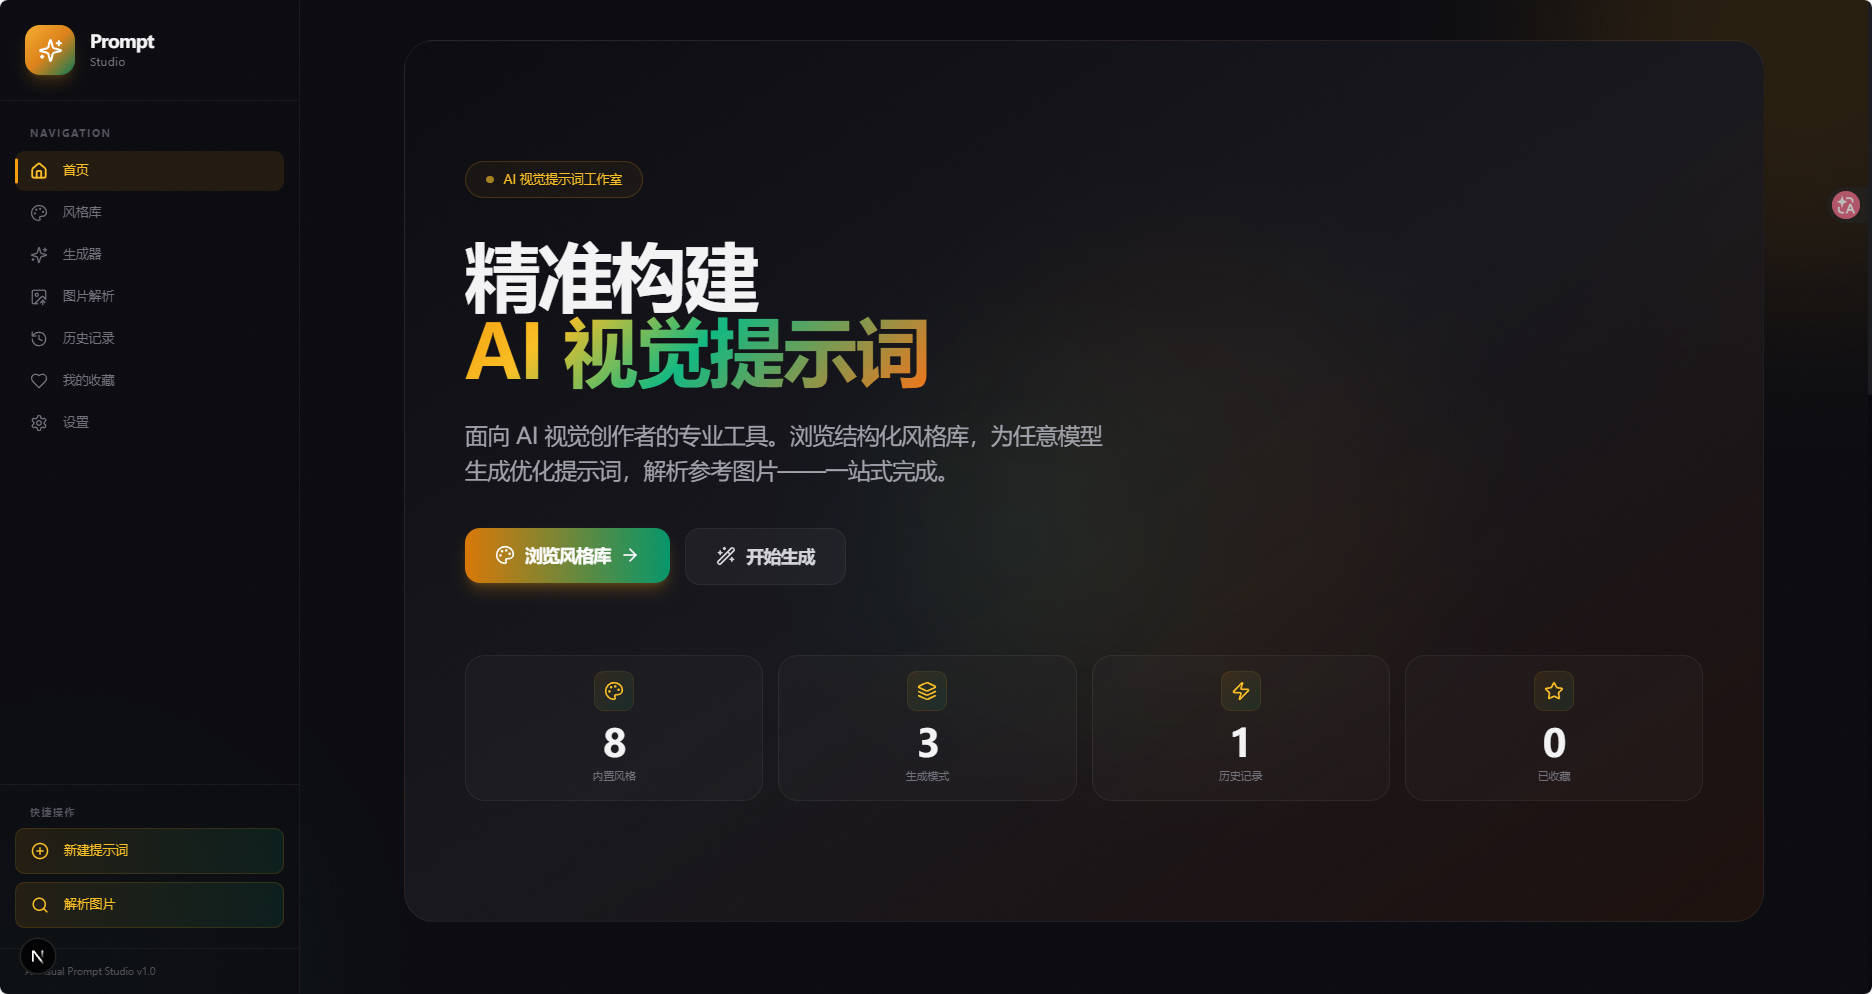
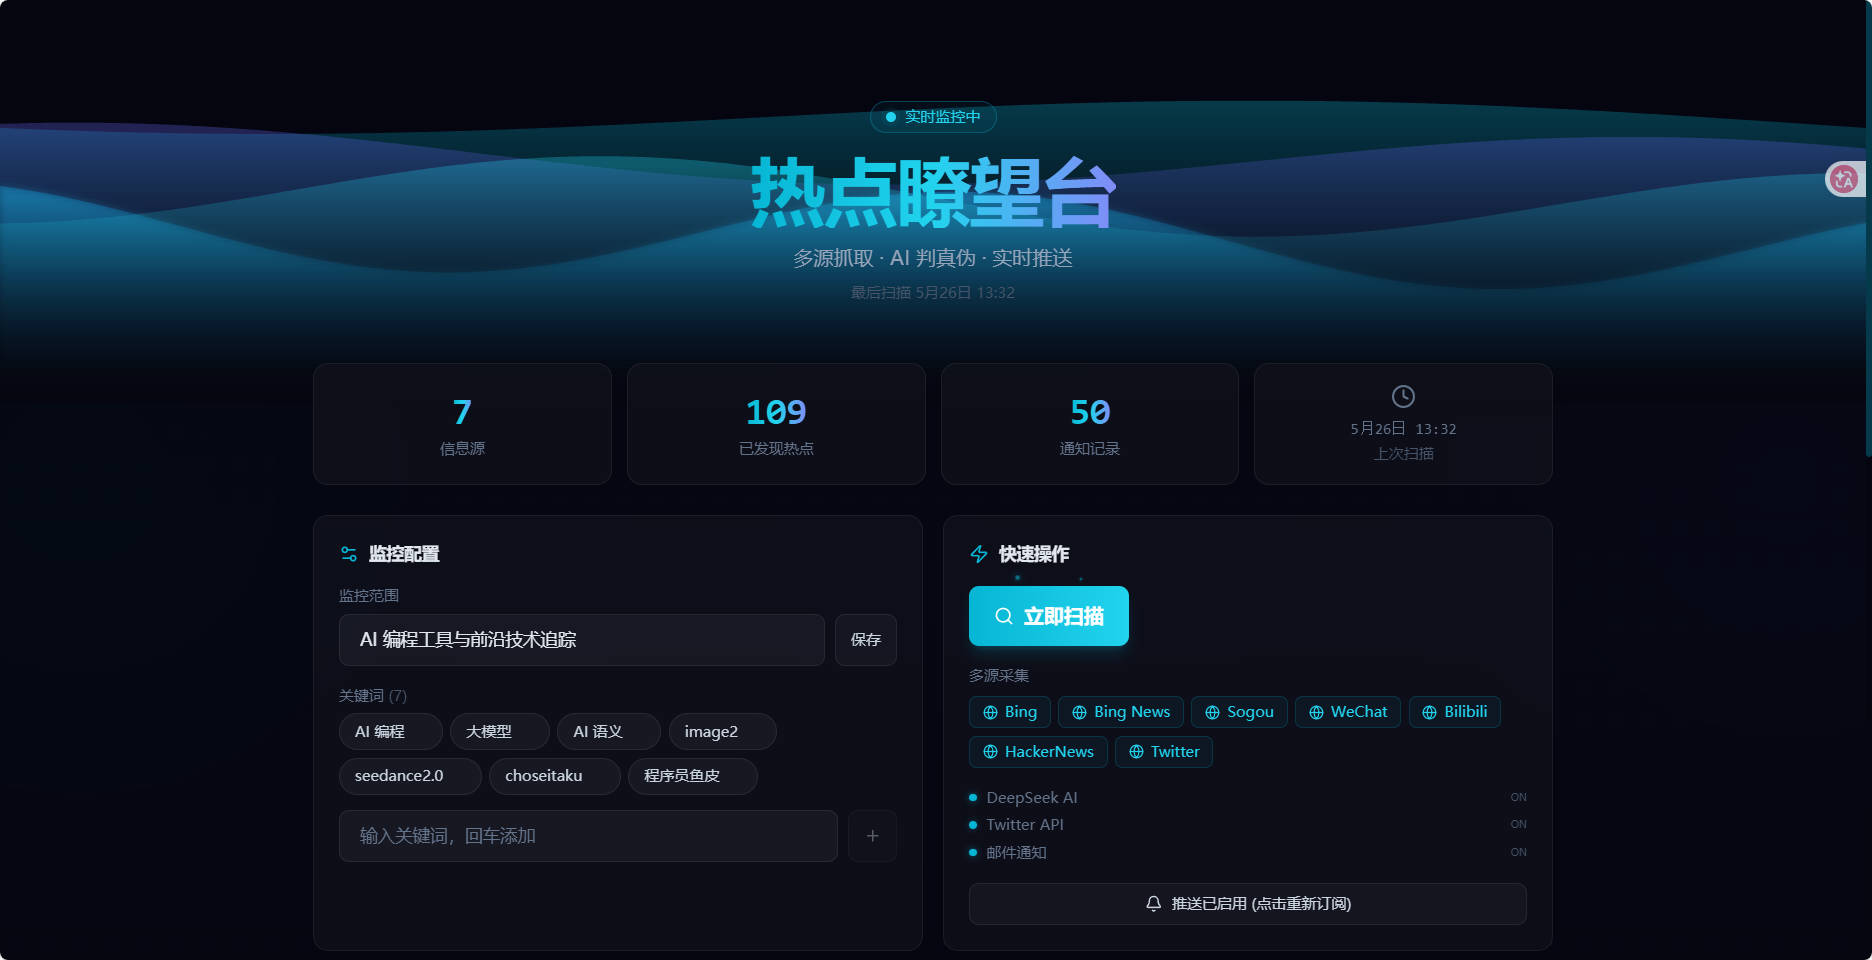
feat: 新增热点瞭望台博客文章

diff --git a/source/_posts/hotspot-monitor.md b/source/_posts/hotspot-monitor.md
@@ -1,0 +1,292 @@
+---
+title: 热点瞭望台 — 一个全栈 AI 热点监控系统的技术复盘
+date: 2026-06-23 10:00:00
+tags:
+  - 项目
+  - AI
+categories:
+  - 项目
+description: 个人项目 · 全栈开发 · 从零到一。热点瞭望台是一个轻量级多源 AI 热点监控工具，涵盖搜索引擎并发抓取、AI判别真伪、Web面板展示、浏览器推送等功能。
+cover: /img/random15.png
+---
+
+# 热点瞭望台 — 一个全栈 AI 热点监控系统的技术复盘
+
+> 个人项目 · 全栈开发 · 从零到一
+
+---
+
+## 项目概述
+
+**热点瞭望台 (Hotspot Monitor)** 是一个轻量级多源 AI 热点监控工具，核心链路为：
+
+```
+7+ 搜索引擎并发抓取 → 去重与公平轮询 → AI 判别真伪与置信度打分 → 科技风 Web 面板展示 → 浏览器推送 / 邮件通知
+```
+
+技术栈：**React 18 + Vite 5 + Tailwind CSS 3 + Express 4 + DeepSeek API**
+
+![网站全貌](/img/website.jpg)
+
+---
+
+## 为什么做这个项目
+
+信息过载时代，每天在 Bing、Bilibili、HackerNews、Twitter 等平台之间反复切换，依然会错过真正有价值的热点。我想做一个**自动化的「信息雷达」**：让它帮我盯着多个来源，用 AI 过滤噪音，只把真正重要的信息推送到面前。
+
+同时，这个项目也是我对**全栈工程能力**的一次综合检验——从网络爬虫、并发调度、AI 集成，到前端可视化、推送通知、定时任务，每一个环节都值得深入思考。
+
+---
+
+## 核心技术亮点
+
+### 1. 多源并发抓取架构
+
+系统集成了 **7 个异构搜索源**，每个源有独立的抓取策略和容错机制：
+
+| 搜索源 | 抓取方式 | 特殊处理 |
+|--------|----------|----------|
+| Bing | HTML 解析 (Cheerio) | 标准搜索结果 |
+| Bing News | HTML 解析 | 提取新闻发布时间 |
+| 搜狗 | HTML 解析 | URL 补全 |
+| 搜狗微信 | HTML 解析 | 微信公众号文章 |
+| Bilibili | WBI 签名 API | 动态密钥刷新 + MD5 签名 |
+| HackerNews | Algolia REST API | 结构化 JSON |
+| Twitter | TwitterAPI.io | 高级搜索 + 互动量过滤 |
+
+**关键设计**：每个源独立 `setTimeout` 超时控制（12-15秒），单源失败不影响其他源。通过 `Promise.allSettled` 并发执行，保证最大限度的数据采集。
+
+```javascript
+// 每个源独立超时，互不干扰
+const searches = await Promise.allSettled(candidatePromises);
+const candidates = searches.flatMap(r => r.status === 'fulfilled' ? r.value : []);
+```
+
+### 2. Bilibili WBI 签名逆向
+
+Bilibili 的搜索 API 需要 WBI 签名验证，这是整个抓取模块中技术难度最高的部分：
+
+- **密钥获取**：先访问 B站首页拿到 `buvid3` cookie，再调用 nav 接口获取 `img_key` 和 `sub_key`
+- **签名算法**：使用 64 位混淆表对参数进行重排，拼接密钥后计算 MD5
+- **自动刷新**：密钥缓存 30 分钟，过期自动重新获取
+
+```javascript
+function signBilibili(params) {
+  const orig = biliState.imgKey + biliState.subKey;
+  const mixinKey = BILI_WBI_MIXIN_TAB.map(i => orig[i]).join('').slice(0, 32);
+  const wts = Math.floor(Date.now() / 1000);
+  const sorted = Object.keys({ ...params, wts }).sort().map(k => `${k}=${v}`).join('&');
+  const wRid = createHash('md5').update(sorted + mixinKey).digest('hex');
+  return `${sorted}&w_rid=${wRid}`;
+}
+```
+
+### 3. 公平轮询算法 — 跨源 × 关键词双层调度
+
+**问题**：Bing 等高产源每次搜索返回 10+ 条结果，而 HackerNews、Twitter 可能只有 2-3 条。如果直接合并，高产源会淹没小众源。
+
+**解决方案**：设计了「来源 × 关键词」双层公平轮询算法：
+
+```
+第一层：每个来源内部，按关键词分组后轮询展平
+  → Bing: [AI编程_1, 大模型_1, AI编程_2, 大模型_2, ...]
+
+第二层：跨来源轮询，每源设置硬配额（max / 源数，不低于 minPerSource）
+  → [Bing_1, HN_1, Twitter_1, Sogou_1, Bing_2, HN_2, ...]
+```
+
+这样保证了每个来源至少有 4 条候选进入 AI 审核，避免了信息来源单一化。
+
+### 4. AI 判别引擎 — 双模型容错
+
+采用 **DeepSeek 为主、OpenRouter (GPT-4o-mini) 兜底** 的双模型策略：
+
+```javascript
+let result = await callDeepSeek(prompt);      // 主力
+if (!result) result = await callOpenRouter(prompt); // 兜底
+```
+
+AI 对每条候选输出结构化 JSON：
+```json
+{
+  "isHot": true,
+  "confidence": 0.85,
+  "summary": "该视频标题提及GPT-Image2，属于AI图像生成工具...",
+  "reason": "内容为实战用法合集，符合社区热门讨论定义，且来源可靠"
+}
+```
+
+**置信度阈值**：`confidence >= 0.4` 才会被收录为热点，避免低质量内容干扰。
+
+### 5. 去重策略
+
+在数据量大的场景下，去重是关键环节。系统采用**三字段联合去重**：
+
+```javascript
+const key = `${item.source}::${normalizeUrl(item.url)}::${item.title}`;
+```
+
+其中 `normalizeUrl` 会去除查询参数和 hash 片段，避免同一内容因 URL 参数不同而被重复收录。
+
+---
+
+## 前端架构与交互设计
+
+### Bento Grid 布局
+
+采用 Bento Grid（便当盒布局）设计，将监控配置、快速操作、热点列表、通知中心四大模块有机组合：
+
+![热点列表与通知面板](/img/热点通知.jpg)
+
+### 热点卡片交互
+
+每张热点卡片支持展开/折叠，展示完整信息：
+
+![卡片展开详情](/img/详细信息展开.jpg)
+
+展开后展示：
+- **AI 判定理由** — 为什么这条内容被判定为热点
+- **详细信息** — 收录时间、发布时间、触发方式、置信度精确值
+- **原文链接** — 一键复制 / 新标签打开
+
+### 排序与筛选系统
+
+支持 4 种排序维度：
+
+| 排序方式 | 逻辑 |
+|----------|------|
+| 相关性 | 有搜索词时按匹配度评分（标题 +5，摘要 +2，query 完全匹配 +8），否则按时间 |
+| 热度 | 按 AI 置信度降序 |
+| 收录 | 按扫描发现时间降序 |
+| 发布 | 按信息源的原始发布时间降序 |
+
+加上来源筛选（按来源 chip 过滤）和关键词搜索（多 token 匹配），形成完整的数据探索能力。
+
+### 动画与视觉
+
+- **WavyBackground**：Canvas 绘制的多层正弦波浪动画，支持颜色、速度、透明度配置
+- **FloatingParticles**：浮动粒子背景，增加科技感
+- **Sparkles**：按钮 sparkle 效果，增强交互反馈
+- **Framer Motion**：卡片进入动画、折叠展开过渡、分页切换
+
+---
+
+## 后端架构
+
+### API 设计
+
+RESTful 风格，8 个核心端点：
+
+```
+GET  /api/config        — 获取关键词与监控范围
+POST /api/keywords      — 添加关键词
+DEL  /api/keywords/:kw  — 删除关键词
+POST /api/scope         — 更新监控范围
+POST /api/scan          — 手动触发扫描
+GET  /api/hotspots      — 获取热点列表
+GET  /api/notifications — 获取通知记录
+POST /api/subscribe     — 浏览器推送订阅
+GET  /api/health        — 服务健康状态
+```
+
+### 定时任务
+
+使用 `node-cron` 每 30 分钟自动执行扫描：
+
+```javascript
+cron.schedule('*/30 * * * *', async () => {
+  await scanHotspots('automatic');
+});
+```
+
+### 数据持久化
+
+采用 JSON 文件存储（`data/` 目录），适合轻量级部署，无需数据库依赖：
+- `keywords.json` — 关键词配置 + 通知记录
+- `hotspots.json` — 热点列表（最多保留 120 条）
+- `subscriptions.json` — 浏览器推送订阅
+
+### 通知系统
+
+**双通道通知**：
+1. **浏览器 Web Push** — 基于 VAPID 协议，通过 Service Worker 推送
+2. **邮件通知** — 基于 nodemailer + SMTP，自动清理无效订阅
+
+---
+
+## 工程实践
+
+### 容错设计
+
+- 每个抓取源独立超时，单源崩溃不影响全局
+- AI 调用双模型容错，DeepSeek 失败自动切换 OpenRouter
+- 通知发送失败静默处理，不阻断主流程
+
+### 性能优化
+
+- 抓取节流：关键词间 800ms 延迟，避免触发反爬
+- 前端分页：每页 10 条，避免大列表渲染压力
+- Canvas 动画：requestAnimationFrame + DPR 适配，保证 60fps 流畅
+
+### 部署方案
+
+```bash
+# 开发模式（前后端分离）
+npm start          # 后端 :4000
+npm run dev        # 前端 :5173，自动代理 /api
+
+# 生产模式（单端口托管）
+npm run build      # Vite 构建 dist/
+npm run start:prod # Express 托管前端 + API
+```
+
+---
+
+## 项目数据
+
+经过一段时间的运行积累：
+
+- **信息源**：7 个
+- **已发现热点**：100+ 条
+- **通知记录**：50+ 条
+- **覆盖平台**：Bilibili、HackerNews、Twitter、Bing、搜狗、微信公众号
+
+---
+
+## 技术栈总结
+
+| 层 | 技术 | 选型理由 |
+|----|------|----------|
+| 前端框架 | React 18 | 生态成熟，组件化开发效率高 |
+| 构建工具 | Vite 5 | 极速 HMR，开发体验优秀 |
+| 样式方案 | Tailwind CSS 3 | 原子化 CSS，快速迭代 UI |
+| 动画 | Framer Motion | 声明式动画 API，与 React 深度集成 |
+| 后端框架 | Express 4 | 轻量灵活，适合 API 服务 |
+| AI 引擎 | DeepSeek API | 性价比高，中文理解能力强 |
+| 定时任务 | node-cron | Cron 语法，零配置 |
+| 网页解析 | Cheerio | 服务端 jQuery，高效 HTML 解析 |
+
+---
+
+## 后续规划
+
+1. **数据可视化** — 添加热点趋势图表，展示各来源的数据分布
+2. **多主题支持** — 支持多套关键词配置，一键切换监控主题
+3. **向量搜索** — 引入 embedding 做语义去重，提升去重精度
+4. **Chrome 插件** — 浏览器扩展，实时查看最新热点
+5. **自动化部署** — GitHub Actions CI/CD，自动构建部署
+
+---
+
+## 写在最后
+
+这个项目让我完整经历了一个全栈产品从需求分析、架构设计、核心算法实现到部署上线的全过程。其中最有收获的几个点：
+
+- **并发调度**：`Promise.allSettled` + 独立超时的容错模式
+- **公平轮询算法**：双层轮询 + 硬配额的设计思路
+- **AI 集成**：结构化 prompt + 双模型容错的工程实践
+- **前端体验**：Bento 布局 + 卡片展开折叠 + 多维排序筛选
+
+项目已开源，欢迎交流。
+
+GitHub: [github.com/ChoSeitaku/sei-hot-monitor](https://github.com/ChoSeitaku/sei-hot-monitor)

diff --git a/CLAUDE.md b/CLAUDE.md
@@ -53,6 +53,7 @@ cover: /img/random01.png
    - random12: x-article-ai-workflow：基于 AI 的全自动化内容创作流水线
    - random13: 从零构建「星拓健康助手」：一个浏览器端 AI 体态检测与健康习惯管理应用
    - random14: 从零打造 AI Visual Prompt Studio：一个前端人的 AI 工具探索之路
+   - random15: 热点瞭望台 — 一个全栈 AI 热点监控系统的技术复盘
 
 ## 删除文章
 
